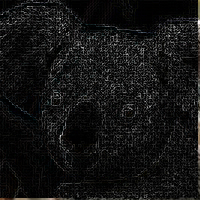
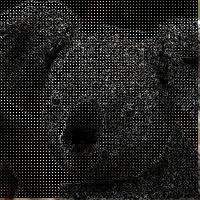
Decodes the encrypted pixels ready for embedding

diff --git a/embed.py b/embed.py
@@ -1,18 +1,72 @@
 from PIL import Image
+import sys
 
 im = Image.open('test.png')
 pix = im.load()
 hi,wi = im.size 
+input = open("enc", "r")
+
+completed = 0
+retrieved = ''
+count = 0
+paddbits = '0000000'
+binval = input.read(1)
+if len(binval) == 0:
+    print("\nEmpty i/p File!")
+b = ord(binval)
+#print(eightbit)
+bitstring = bin(b)
+bits = bitstring[2:]
+
+def embedbits(diff,colorpixel):
+    nb = diff
+    global bits
+    global count
+    global bitstring
+    global retrieved 
+    global paddbits
+    global binval
+    global completed
+    if(nb < len(bits)):
+        #print(bits,end=" ")
+        newbits = bits[:nb]
+        bits = bits[nb:]
+        #print(newbits)
+        retrieved += newbits
+    else:
+        newbits = bits + paddbits[:(nb-len(bits))]
+        pad = nb-len(bits)
+        retrieved += newbits
+        #print("pad",newbits)
+        #print("stats",newbits,retrieved)
+
+        count += 1
+        retrieved = retrieved[:(len(retrieved)-pad)]
+        print("Info for",count,"data:","retrieved -",int(retrieved,2),"orginal - ",int(bitstring,2))
+
+        binval = input.read(1)
+        if len(binval) == 0:
+            print("\nEmbedding Completed")
+            completed = 1
+            sys.exit()
+        b = ord(binval)
+        #print(eightbit)
+        bitstring = bin(b)
+        bits = bitstring[2:]
+        retrieved = ''
+
+        
+
 
 def classify(pvd):
-    bits = 0
+    nbits = 0
     if(pvd < 16):
-        bits = 2
+        nbits = 2
     elif(16 < pvd < 32):
-        bits = 3
+        nbits = 3
     else:
-        bits = 4
-    return bits
+        nbits = 4
+    return nbits
 
 capacity = 0
 
@@ -21,12 +75,14 @@ liy = wi//3
 
 for i in range(0,lix*3,3):
     for j in range(0,liy*3,3):
-        print("--------------")
+        #print("--------------")
         rref,gref,bref = pix[i+1,j+1]
         for k in range(i,(i+3)):
             if(k >= hi):
                 break
             for l in range(j,(j+3)):
+                if(k == i+1 and l == j+1):
+                    continue
                 if(l >= wi):
                     break
                 r,g,b = pix[k,l]
@@ -36,8 +92,14 @@ for i in range(0,lix*3,3):
                 rdif = abs(rdif)
                 gdif = abs(gdif)
                 bdif = abs(bdif)
+
+                embedbits(classify(rdif),'{0:08b}'.format(r))
+                embedbits(classify(gdif),'{0:08b}'.format(g))
+                embedbits(classify(bdif),'{0:08b}'.format(b))
+
+
                 capacity = capacity + classify(rdif) + classify(gdif) + classify(bdif)
-                print("__",k,l,": ",pix[k,l],"bits: ",classify(rdif),classify(gdif),classify(bdif),"binary: ",'{0:08b}'.format(r))
+                #print("\n__",k,l,": ",pix[k,l],"bits: ",classify(rdif),classify(gdif),classify(bdif),"binary: ",'{0:08b}'.format(r))
                 pix[k,l] = (rdif,gdif,bdif)
 im.save('protest.png')
 

diff --git a/readbits.py b/readbits.py
@@ -5,7 +5,7 @@ python3 = sys.version_info.major >= 3
 paddbits = '0000000'
 
 def rand():
-    return randint(3, 5)
+    return randint(1, 3)
 
 def main(args):
     ipfile = args
@@ -40,7 +40,7 @@ def main(args):
                     break
             retrieved = retrieved[:(len(retrieved)-pad)]
             #print()
-            print(chr(int(retrieved,2)),end="")
+            print(int(retrieved,2),int(bitstring,2))
             outp.write(chr(int(retrieved,2)))
     outp.close()
 
